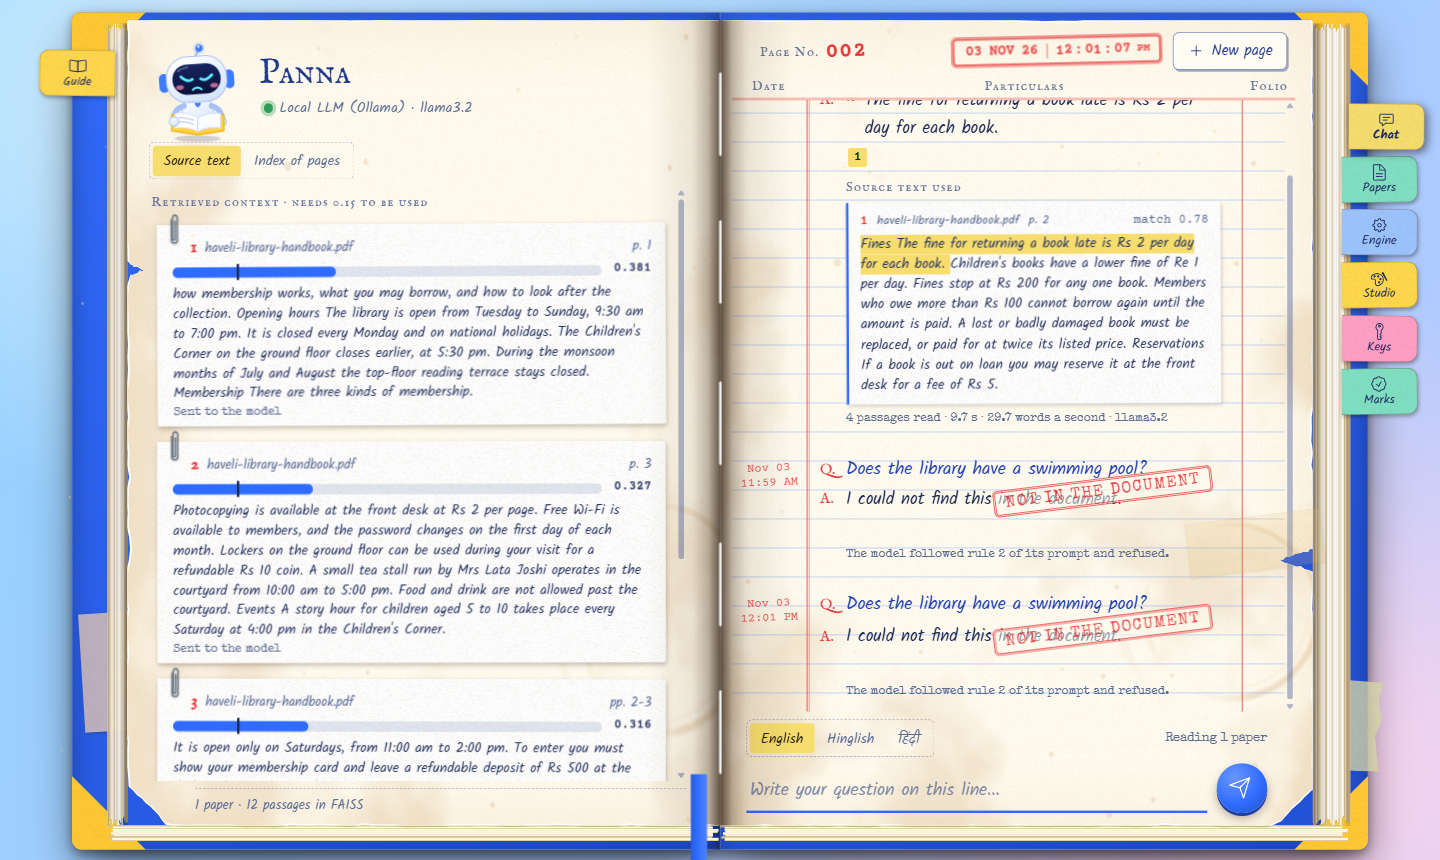
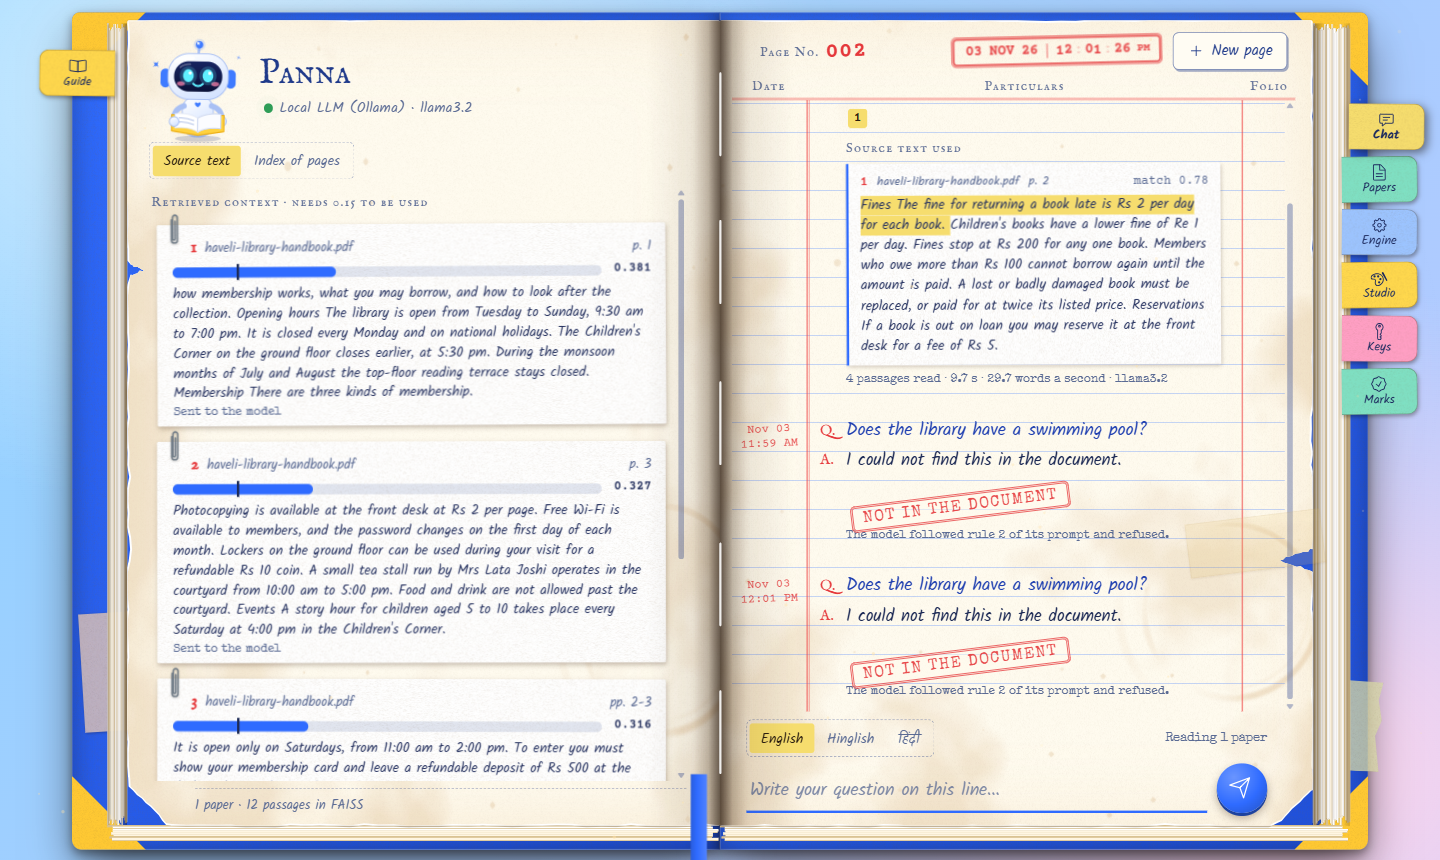
Place refusal stamp below the answer

Changed region(s): [[0.5, 0.0907, 0.9062, 0.8163], [0.0938, 0.0605, 0.1562, 0.1209], [0.8438, 0.6651, 0.875, 0.6953]]

diff --git a/web/css/chat.css b/web/css/chat.css
@@ -172,10 +172,10 @@
 .e-meta { margin: 6px 0 0 26px; font-family: 'Special Elite', monospace; font-size: 12px; line-height: 1.4; color: var(--ink-soft); }
 
 /* ── A refusal: the rubber stamp ── */
-.refused { position: absolute; right: 2%; top: -6px; padding: .18em .6em; border: 3px double var(--stamp); border-radius: 5px; color: var(--stamp); font-family: 'Special Elite', monospace; font-size: 16px; letter-spacing: .08em; text-transform: uppercase; rotate: -7deg; background: color-mix(in srgb, var(--paper) 60%, transparent); opacity: .9; }
+.refused { position: absolute; left: 30px; bottom: 0; padding: .18em .6em; border: 3px double var(--stamp); border-radius: 5px; color: var(--stamp); font-family: 'Special Elite', monospace; font-size: 16px; letter-spacing: .08em; text-transform: uppercase; rotate: -7deg; background: color-mix(in srgb, var(--paper) 60%, transparent); opacity: .9; }
 .refused.thump { animation: thump .42s cubic-bezier(.3, 1.3, .5, 1) both; }
 @keyframes thump { 0% { transform: scale(2.6); opacity: 0; } 62% { transform: scale(.94); opacity: 1; } 100% { transform: scale(1); } }
-.a:has(.refused) { padding-bottom: 26px; }
+.a:has(.refused) { padding-bottom: 46px; }
 
 .problem { margin: 6px 0 0 26px; padding: 9px 12px; display: grid; gap: 6px; justify-items: start; border: 2px dashed var(--stamp); border-radius: 6px; font-family: var(--font-ui); font-size: 15px; color: var(--ink-a); }
 .problem code { padding: .1em .45em; background: color-mix(in srgb, var(--head-ink) 13%, transparent); border-radius: 3px; font-family: 'Courier Prime', monospace; font-size: 14px; user-select: all; }
